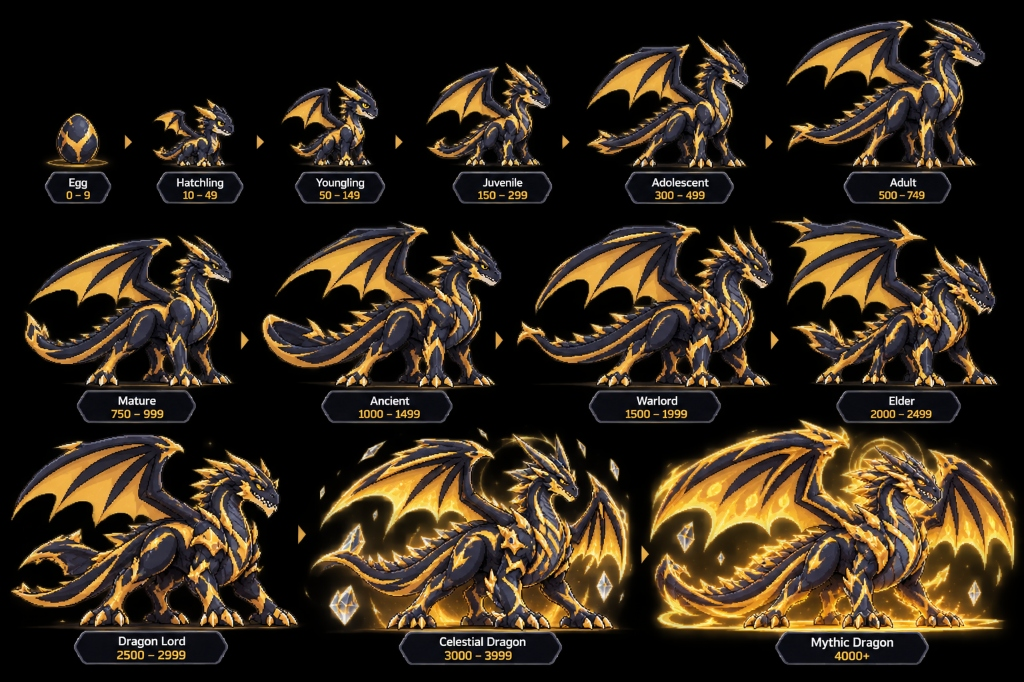
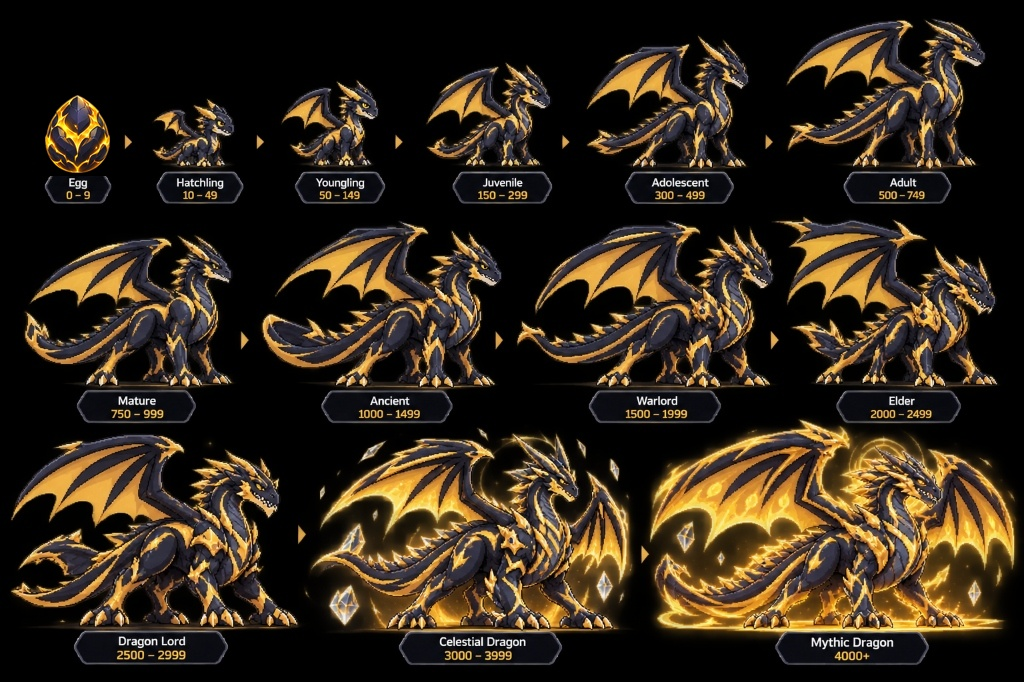
Replace old egg across all assets, charts, and procedural renderer with new magma egg

Changed region(s): [[0.0312, 0.1232, 0.125, 0.2771]]

diff --git a/drago/master_dragon.py b/drago/master_dragon.py
@@ -186,29 +186,29 @@ class MasterDragonModel:
         return img
 
     def _render_egg(self, draw: ImageDraw.ImageDraw, p, t_rad: float):
-        """Draws the obsidian dragon egg with glowing gold veins and rocking motion."""
-        rock = math.sin(t_rad) * 0.08
-        center = p(512, 380)
-        ew, eh = (60 * self.ss), (85 * self.ss)
-
-        # Rocking transform
-        pts = []
-        for a in np.linspace(0, 2 * math.pi, 36):
-            ex = math.cos(a) * ew
-            ey = math.sin(a) * eh
-            rx = ex * math.cos(rock) - ey * math.sin(rock) + center[0]
-            ry = ex * math.sin(rock) + ey * math.cos(rock) + center[1]
-            pts.append((rx, ry))
-
-        # Shadow
-        draw.ellipse([center[0] - ew * 1.2, center[1] + eh * 0.7, center[0] + ew * 1.2, center[1] + eh * 1.0], fill=(5, 6, 8, 140))
-        # Egg shell
-        self._draw_poly(draw, pts, self.c_body_dark, self.c_ink, self.lw_heavy)
-        # Gold veins
-        pulse = 0.5 + 0.5 * math.sin(t_rad)
-        v_color = (int(252 * pulse), int(180 * pulse), int(43 * pulse))
-        v1 = [p(500, 340), p(515, 370), p(490, 400), p(520, 430)]
-        draw.line(v1, fill=v_color, width=self.lw_mid, joint="curve")
+        """Renders the authentic high-res magma dragon egg with rocking physics and heartbeat glow."""
+        import os
+        egg_path = os.path.join("assets", "sprites", "01_egg.png")
+        if os.path.exists(egg_path):
+            egg_im = Image.open(egg_path).convert("RGBA")
+            rock_deg = math.sin(t_rad) * 4.2
+            # Rotate around bottom center
+            rotated = egg_im.rotate(-rock_deg, resample=Image.Resampling.BICUBIC, center=(egg_im.width * 0.5, egg_im.height * 0.9))
+            
+            # Target display size on canvas
+            eh = int(round(320 * self.ss))
+            ew = int(round(eh * (egg_im.width / egg_im.height)))
+            scaled = rotated.resize((ew, eh), Image.Resampling.LANCZOS)
+            
+            center = p(512, 380)
+            px = int(round(center[0] - ew * 0.5))
+            py = int(round(center[1] - eh * 0.5 + 20 * self.ss))
+            
+            # Ground shadow
+            draw.ellipse([px + 10 * self.ss, py + eh - 20 * self.ss, px + ew - 10 * self.ss, py + eh + 15 * self.ss], fill=(5, 6, 8, 160))
+            # Paste egg
+            draw._image.alpha_composite(scaled, (px, py))
+            return
 
     def _draw_far_wing(self, draw: ImageDraw.ImageDraw, p, wy: float, flare: float):
         """Draws the rear (left) wing behind the neck and chest."""
